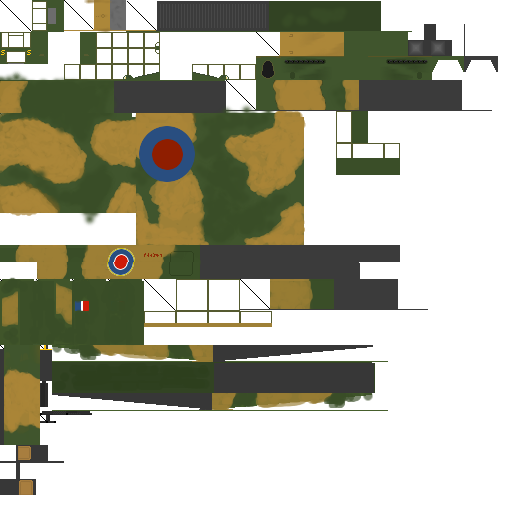
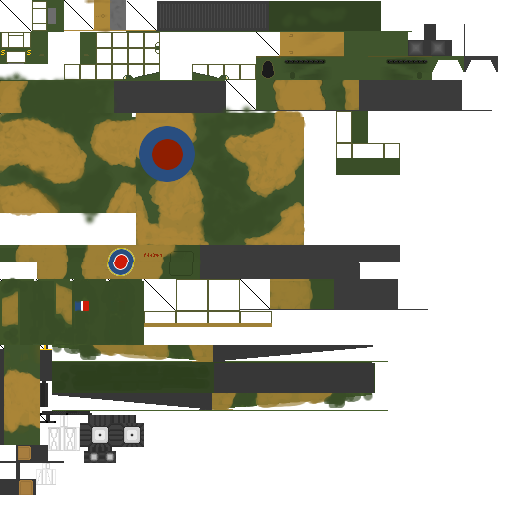
Lancaster wheels done

Changed region(s): [[0.0938, 0.8125, 0.2812, 0.9062]]

diff --git a/src/minecraft/co/uk/flansmods/client/model/ww2/ModelLancaster.java b/src/minecraft/co/uk/flansmods/client/model/ww2/ModelLancaster.java
@@ -255,39 +255,58 @@ public class ModelLancaster extends ModelPlane
 		tailModel[6].flip = true;
 		tailModel[6].addTrapezoid(128, -96, -16, 16, 32, 32, 0.0F, -6.0F, ModelRendererTurbo.MR_LEFT); //Rear Gunner Window Inside
 		
-		rightWingModel = new ModelRendererTurbo[6];
-		rightWingModel[0] = new ModelRendererTurbo(this,0, 113, textureX, textureY);
-		rightWingModel[0].addBox(-64, 16, -82, 64, 96, 4, 0.0F); //Right Wing Inner
-		rightWingModel[0].rotateAngleX = -(float)Math.PI / 2;		
-		rightWingModel[1] = new ModelRendererTurbo(this,136, 113, textureX, textureY);
-		rightWingModel[1].addTrapezoid(-64, 112, -82, 80, 128, 4, 0.0F, -2.0F, ModelRendererTurbo.MR_BOTTOM); //Right Wing Outer
-		rightWingModel[1].rotateAngleX = -(float)Math.PI / 2;		
-		rightWingModel[2] = new ModelRendererTurbo(this,256, 32, textureX, textureY);
-		rightWingModel[2].addTrapezoid(-112, -80, -64, 64, 24, 24, 0.0F, -2.0F, ModelRendererTurbo.MR_BOTTOM); //Right Inner Engine
-		rightWingModel[3] = new ModelRendererTurbo(this,256, 32, textureX, textureY);
-		rightWingModel[3].addTrapezoid(-96, -80, -128, 64, 24, 24, 0.0F, -2.0F, ModelRendererTurbo.MR_BOTTOM); //Right Outer Engine
-		rightWingModel[4] = new ModelRendererTurbo(this,408, 24, textureX, textureY);
-		rightWingModel[4].addBox(-115, -76, -60, 6, 16, 16, 0.0F); //Right Inner Engine Propeller Centre
-		rightWingModel[5] = new ModelRendererTurbo(this,408, 24, textureX, textureY);
-		rightWingModel[5].addBox(-99, -76, -124, 6, 16, 16, 0.0F); //Right Outer Engine Propeller Centre
+		tailWheelModel = new ModelRendererTurbo[2];
+		tailWheelModel[0] = new ModelRendererTurbo(this, 36, 463, textureX, textureY);
+		tailWheelModel[0].addBox(98, -10, -3, 4, 16, 6);
+		tailWheelModel[1] = new ModelRendererTurbo(this, 84, 447, textureX, textureY);
+		tailWheelModel[1].addBox(94, -1, -2, 12, 12, 4);
+	
 		
 		leftWingModel = new ModelRendererTurbo[6];
-		leftWingModel[0] = new ModelRendererTurbo(this,0, 113, textureX, textureY);	
-		leftWingModel[0].addBox(-64, 16, -82, 64, 96, 4, 0.0F); //Left Wing Inner
-		leftWingModel[0].doMirror(false, true, false);
+		leftWingModel[0] = new ModelRendererTurbo(this,0, 113, textureX, textureY);
+		leftWingModel[0].addBox(-64, 16, -82, 64, 96, 4, 0.0F); //Right Wing Inner
 		leftWingModel[0].rotateAngleX = -(float)Math.PI / 2;		
 		leftWingModel[1] = new ModelRendererTurbo(this,136, 113, textureX, textureY);
-		leftWingModel[1].addTrapezoid(-64, 112, -82, 80, 128, 4, 0.0F, -2.0F, ModelRendererTurbo.MR_BOTTOM); //Left Wing Outer
-		leftWingModel[1].doMirror(false, true, false);
-		leftWingModel[1].rotateAngleX = -(float)Math.PI / 2;
+		leftWingModel[1].addTrapezoid(-64, 112, -82, 80, 128, 4, 0.0F, -2.0F, ModelRendererTurbo.MR_BOTTOM); //Right Wing Outer
+		leftWingModel[1].rotateAngleX = -(float)Math.PI / 2;		
 		leftWingModel[2] = new ModelRendererTurbo(this,256, 32, textureX, textureY);
-		leftWingModel[2].addTrapezoid(-112, -80, 40, 64, 24, 24, 0.0F, -2.0F, ModelRendererTurbo.MR_BOTTOM); //Left Inner Engine
+		leftWingModel[2].addTrapezoid(-112, -80, -64, 64, 24, 24, 0.0F, -2.0F, ModelRendererTurbo.MR_BOTTOM); //Right Inner Engine
 		leftWingModel[3] = new ModelRendererTurbo(this,256, 32, textureX, textureY);
-		leftWingModel[3].addTrapezoid(-96, -80, 104, 64, 24, 24, 0.0F, -2.0F, ModelRendererTurbo.MR_BOTTOM); //Left Outer Engine		
+		leftWingModel[3].addTrapezoid(-96, -80, -128, 64, 24, 24, 0.0F, -2.0F, ModelRendererTurbo.MR_BOTTOM); //Right Outer Engine
 		leftWingModel[4] = new ModelRendererTurbo(this,408, 24, textureX, textureY);
-		leftWingModel[4].addBox(-115, -76, 44, 6, 16, 16, 0.0F); //Left Inner Engine Propeller Centre
+		leftWingModel[4].addBox(-115, -76, -60, 6, 16, 16, 0.0F); //Right Inner Engine Propeller Centre
 		leftWingModel[5] = new ModelRendererTurbo(this,408, 24, textureX, textureY);
-		leftWingModel[5].addBox(-99, -76, 108, 6, 16, 16, 0.0F); //Left Outer Engine Propeller Centre		
+		leftWingModel[5].addBox(-99, -76, -124, 6, 16, 16, 0.0F); //Right Outer Engine Propeller Centre
+		
+		leftWingWheelModel = new ModelRendererTurbo[2];
+		leftWingWheelModel[0] = new ModelRendererTurbo(this, 48, 415, textureX, textureY);
+		leftWingWheelModel[0].addBox(-82, -4, -58, 4, 24, 12);
+		leftWingWheelModel[1] = new ModelRendererTurbo(this, 80, 415, textureX, textureY);
+		leftWingWheelModel[1].addBox(-92, 8, -56, 24, 24, 8);
+		
+		rightWingModel = new ModelRendererTurbo[6];
+		rightWingModel[0] = new ModelRendererTurbo(this,0, 113, textureX, textureY);	
+		rightWingModel[0].addBox(-64, 16, -82, 64, 96, 4, 0.0F); //Left Wing Inner
+		rightWingModel[0].doMirror(false, true, false);
+		rightWingModel[0].rotateAngleX = -(float)Math.PI / 2;		
+		rightWingModel[1] = new ModelRendererTurbo(this,136, 113, textureX, textureY);
+		rightWingModel[1].addTrapezoid(-64, 112, -82, 80, 128, 4, 0.0F, -2.0F, ModelRendererTurbo.MR_BOTTOM); //Left Wing Outer
+		rightWingModel[1].doMirror(false, true, false);
+		rightWingModel[1].rotateAngleX = -(float)Math.PI / 2;
+		rightWingModel[2] = new ModelRendererTurbo(this,256, 32, textureX, textureY);
+		rightWingModel[2].addTrapezoid(-112, -80, 40, 64, 24, 24, 0.0F, -2.0F, ModelRendererTurbo.MR_BOTTOM); //Left Inner Engine
+		rightWingModel[3] = new ModelRendererTurbo(this,256, 32, textureX, textureY);
+		rightWingModel[3].addTrapezoid(-96, -80, 104, 64, 24, 24, 0.0F, -2.0F, ModelRendererTurbo.MR_BOTTOM); //Left Outer Engine		
+		rightWingModel[4] = new ModelRendererTurbo(this,408, 24, textureX, textureY);
+		rightWingModel[4].addBox(-115, -76, 44, 6, 16, 16, 0.0F); //Left Inner Engine Propeller Centre
+		rightWingModel[5] = new ModelRendererTurbo(this,408, 24, textureX, textureY);
+		rightWingModel[5].addBox(-99, -76, 108, 6, 16, 16, 0.0F); //Left Outer Engine Propeller Centre	
+		
+		rightWingWheelModel = new ModelRendererTurbo[2];
+		rightWingWheelModel[0] = new ModelRendererTurbo(this, 48, 415, textureX, textureY);
+		rightWingWheelModel[0].addBox(-82, -4, 46, 4, 24, 12);
+		rightWingWheelModel[1] = new ModelRendererTurbo(this, 80, 415, textureX, textureY);
+		rightWingWheelModel[1].addBox(-92, 8, 48, 24, 24, 8);
 
 		propellerModels = new ModelRendererTurbo[4][3]; //4 propellers
 		propellerModels[1] = makeProp(-114, -68, 52);
@@ -304,11 +323,11 @@ public class ModelLancaster extends ModelPlane
 		yawFlapModel[1].addBox(0F, -48F , -1F, 16, 64, 2, 0.0F);
 		yawFlapModel[1].setPosition(112F, -80F, -81F);			
 	
-		pitchFlapRightWingModel = new ModelRendererTurbo[1];
-		pitchFlapRightWingModel[0] = new ModelRendererTurbo(this,0, 345, textureX, textureY);
-		pitchFlapRightWingModel[0].addBox(0F, -48F , -2F, 16, 96, 4, 0.0F);
-        pitchFlapRightWingModel[0].rotateAngleX = 1.570796F;
-		pitchFlapRightWingModel[0].setPosition(0F, -80F, -64F);
+		pitchFlapLeftWingModel = new ModelRendererTurbo[1];
+		pitchFlapLeftWingModel[0] = new ModelRendererTurbo(this,0, 345, textureX, textureY);
+		pitchFlapLeftWingModel[0].addBox(0F, -48F , -2F, 16, 96, 4, 0.0F);
+		pitchFlapLeftWingModel[0].rotateAngleX = 1.570796F;
+		pitchFlapLeftWingModel[0].setPosition(0F, -80F, -64F);
 		
 		pitchFlapLeftModel = new ModelRendererTurbo[1];		
 		pitchFlapLeftModel[0] = new ModelRendererTurbo(this,36, 279, textureX, textureY);
@@ -316,35 +335,18 @@ public class ModelLancaster extends ModelPlane
 	    pitchFlapLeftModel[0].rotateAngleX = 1.570796F;
 		pitchFlapLeftModel[0].setPosition(112F, -81F, 48F);	
 		
-		pitchFlapLeftWingModel = new ModelRendererTurbo[1]; //Two right pitch flaps
-		pitchFlapLeftWingModel[0] = new ModelRendererTurbo(this,0, 345, textureX, textureY);
-		pitchFlapLeftWingModel[0].addBox(0F, -48F , -2F, 16, 96, 4, 0.0F);
-		pitchFlapLeftWingModel[0].doMirror(false, true, false);
-        pitchFlapLeftWingModel[0].rotateAngleX = 1.570796F;
-		pitchFlapLeftWingModel[0].setPosition(0F, -80F, 64F);
+		pitchFlapRightWingModel = new ModelRendererTurbo[1]; //Two right pitch flaps
+		pitchFlapRightWingModel[0] = new ModelRendererTurbo(this,0, 345, textureX, textureY);
+		pitchFlapRightWingModel[0].addBox(0F, -48F , -2F, 16, 96, 4, 0.0F);
+		pitchFlapRightWingModel[0].doMirror(false, true, false);
+		pitchFlapRightWingModel[0].rotateAngleX = 1.570796F;
+		pitchFlapRightWingModel[0].setPosition(0F, -80F, 64F);
 		
 		pitchFlapRightModel = new ModelRendererTurbo[1];		
 		pitchFlapRightModel[0] = new ModelRendererTurbo(this,36, 279, textureX, textureY);
 		pitchFlapRightModel[0].addBox(0, -32, -1, 16, 64, 2, 0.0F);
 	    pitchFlapRightModel[0].rotateAngleX = 1.570796F;
 		pitchFlapRightModel[0].setPosition(112F, -81F, -48F);
-
-		topWingModel = new ModelRendererTurbo[0];
-		
-		bodyWheelModel = new ModelRendererTurbo[0];
-		tailWheelModel = new ModelRendererTurbo[0];
-		rightWingWheelModel = new ModelRendererTurbo[0];
-		leftWingWheelModel = new ModelRendererTurbo[0];
-
-		bodyDoorOpenModel = new ModelRendererTurbo[0];
-		bodyDoorCloseModel = new ModelRendererTurbo[0];
-		tailDoorOpenModel = new ModelRendererTurbo[0];
-		tailDoorCloseModel = new ModelRendererTurbo[0];
-
-		rightWingPos1Model = new ModelRendererTurbo[0];
-		rightWingPos2Model = new ModelRendererTurbo[0];
-		leftWingPos1Model = new ModelRendererTurbo[0];
-		leftWingPos2Model = new ModelRendererTurbo[0];
 		
 		translateAll(52);
 		

diff --git a/src/minecraft/co/uk/flansmods/common/driveables/EntityPlane.java b/src/minecraft/co/uk/flansmods/common/driveables/EntityPlane.java
@@ -1,5 +1,7 @@
 package co.uk.flansmods.common.driveables;
 
+import java.io.DataInputStream;
+import java.io.DataOutputStream;
 import java.io.IOException;
 import java.util.List;
 
@@ -60,9 +62,12 @@ public class EntityPlane extends EntityDriveable
 	private boolean spawnedEntities;
 	public int ticksSinceUsed = 0;
     
-    public boolean varGear;
-    public boolean varDoor;
-    public boolean varWing;
+    public boolean varGear = true;
+    public boolean varDoor = false;
+    public boolean varWing = false;
+    
+    //Used to stop multiple presses of gear, door and wing buttons
+    public int toggleTimer = 0;
   
 	public int trimButton = 1;
 	
@@ -119,7 +124,37 @@ public class EntityPlane extends EntityDriveable
         varDoor = tag.getBoolean("VarDoor");
         varWing = tag.getBoolean("VarWing");
     }
-
+	
+	@Override
+	public void writeUpdateData(DataOutputStream out)
+	{
+		try
+		{
+			out.writeBoolean(varGear);
+			out.writeBoolean(varDoor);
+			out.writeBoolean(varWing);
+		}
+		catch(IOException e)
+		{
+			e.printStackTrace();
+		}
+	}
+	
+	@Override
+	public void readUpdateData(DataInputStream in)
+	{
+		try
+		{
+			varGear = in.readBoolean();
+			varDoor = in.readBoolean();
+			varWing = in.readBoolean();
+		}
+		catch(IOException e)
+		{
+			e.printStackTrace();
+		}
+	}
+	
 	/**
 	 * Called with the movement of the mouse. Used in controlling vehicles if need be.
 	 * @param deltaY 
@@ -178,7 +213,7 @@ public class EntityPlane extends EntityDriveable
 	public boolean pressKey(int key, EntityPlayer player)
 	{
     	PlaneType type = this.getPlaneType();
-    	if(worldObj.isRemote && (key == 6 || key == 8 || key == 9))
+    	if(worldObj.isRemote && (key == 6 || key == 8 || key == 9))// || key == 13 || key == 14 || key == 15))
     	{
     		PacketDispatcher.sendPacketToServer(PacketVehicleKey.buildKeyPacket(key));
     		return true;
@@ -339,23 +374,37 @@ public class EntityPlane extends EntityDriveable
 			}
 			case 13 : // Gear
 			{
-				varGear = !varGear;
-				if(type.hasGear)
-					player.addChatMessage("Landing gear " + (varGear ? "up" : "down"));
+				if(toggleTimer <= 0)
+				{
+					varGear = !varGear;
+					player.addChatMessage("Landing gear " + (varGear ? "down" : "up"));
+					toggleTimer = 10;
+					PacketDispatcher.sendPacketToServer(PacketVehicleControl.buildUpdatePacket(this));
+				}
 				return true;
 			}
 			case 14 : // Door
 			{
-				varDoor = !varDoor;
-				if(type.hasDoor)
-					player.addChatMessage("Doors " + (varDoor ? "open" : "closed"));
+				if(toggleTimer <= 0)
+				{
+					varDoor = !varDoor;
+					if(type.hasDoor)
+						player.addChatMessage("Doors " + (varDoor ? "open" : "closed"));
+					toggleTimer = 10;
+					PacketDispatcher.sendPacketToServer(PacketVehicleControl.buildUpdatePacket(this));
+				}
 				return true;
 			}
 			case 15 : // Wing
 			{
-				varWing = !varWing;
-				if(type.hasWing)
-					player.addChatMessage("Toggling wings");
+				if(toggleTimer <= 0)
+				{
+					varWing = !varWing;
+					if(type.hasWing)
+						player.addChatMessage("Toggling wings");
+					toggleTimer = 10;
+					PacketDispatcher.sendPacketToServer(PacketVehicleControl.buildUpdatePacket(this));
+				}
 				return true;
 			}
             case 16 : // Trim Button
@@ -401,6 +450,8 @@ public class EntityPlane extends EntityDriveable
 			bombDelay--;
 		if(gunDelay > 0)
 			gunDelay--;
+		if(toggleTimer > 0)
+			toggleTimer--;
 		
 		//Aesthetics
 		//Rotate the propellers
@@ -662,7 +713,12 @@ public class EntityPlane extends EntityDriveable
     		super.applyEntityCollision(entity);
     }
   
-	
+    @Override
+	public boolean canHitPart(EnumDriveablePart part)
+	{
+    	return varGear || (part != EnumDriveablePart.coreWheel && part != EnumDriveablePart.leftWingWheel && part != EnumDriveablePart.rightWingWheel && part != EnumDriveablePart.tailWheel);
+	}
+    
 	@Override
 	public boolean attackEntityFrom(DamageSource damagesource, float i)
     {

diff --git a/src/minecraft/co/uk/flansmods/common/driveables/EntityDriveable.java b/src/minecraft/co/uk/flansmods/common/driveables/EntityDriveable.java
@@ -1,5 +1,7 @@
 package co.uk.flansmods.common.driveables;
 
+import java.io.DataInputStream;
+import java.io.DataOutputStream;
 import java.io.IOException;
 import java.util.ArrayList;
 import java.util.HashMap;
@@ -100,7 +102,7 @@ public abstract class EntityDriveable extends Entity implements IControllable, I
 		}
 		for(EnumDriveablePart part : EnumDriveablePart.values())
 		{
-			parts.put(part, new DriveablePart(part, type.health.get(part)));
+			parts.put(part, new DriveablePart(this, part, type.health.get(part)));
 		}
 		yOffset = type.yOffset;
 	}
@@ -195,6 +197,10 @@ public abstract class EntityDriveable extends Entity implements IControllable, I
 			e.printStackTrace();
 		}
 	}
+	
+	public abstract void writeUpdateData(DataOutputStream out);
+	
+	public abstract void readUpdateData(DataInputStream in);
 	
 	/**
 	 * Called with the movement of the mouse. Used in controlling vehicles if need be.
@@ -860,6 +866,12 @@ public abstract class EntityDriveable extends Entity implements IControllable, I
 			}
 		}
 		return false;
+	}
+	
+	/** For overriding for toggles such as gear up / down on planes */
+	public boolean canHitPart(EnumDriveablePart part)
+	{
+		return true;
 	}
 	
 	/** Internal method for checking that all parts are ok, destroying broken ones, dropping items and making sure that child parts are destroyed when their parents are */

diff --git a/src/minecraft/co/uk/flansmods/common/network/PacketVehicleControl.java b/src/minecraft/co/uk/flansmods/common/network/PacketVehicleControl.java
@@ -40,6 +40,7 @@ public class PacketVehicleControl extends FlanPacketCommon
         	data.writeFloat(driveable.angularVelocity.y);
         	data.writeFloat(driveable.angularVelocity.z);
         	data.writeFloat(driveable.throttle);
+        	driveable.writeUpdateData(data);
         	        	
         	packet.data = bytes.toByteArray();
         	packet.length = packet.data.length;
@@ -76,6 +77,7 @@ public class PacketVehicleControl extends FlanPacketCommon
 			if(driveable != null)
 			{
 				driveable.setPositionRotationAndMotion(stream.readDouble(), stream.readDouble(), stream.readDouble(), stream.readFloat(), stream.readFloat(), stream.readFloat(), stream.readDouble(), stream.readDouble(), stream.readDouble(), stream.readFloat(), stream.readFloat(), stream.readFloat(), stream.readFloat());
+				driveable.readUpdateData(stream);
 			}
 		}
         catch(Exception e)

diff --git a/src/minecraft/co/uk/flansmods/common/driveables/DriveablePart.java b/src/minecraft/co/uk/flansmods/common/driveables/DriveablePart.java
@@ -14,9 +14,11 @@ public class DriveablePart
 	public boolean onFire;
 	/** Keeps track of whether death code has been called or not */
 	public boolean dead;
+	public EntityDriveable driveable;
 	
-	public DriveablePart(EnumDriveablePart e, CollisionBox b)
+	public DriveablePart(EntityDriveable d, EnumDriveablePart e, CollisionBox b)
 	{
+		driveable = d;
 		type = e;
 		box = b;
 		health = maxHealth = b == null ? 0 : b.health;
@@ -48,6 +50,8 @@ public class DriveablePart
 	public boolean rayTrace(EntityBullet bullet, Vector3f origin, Vector3f motion)
 	{
 		if(box == null || health <= 0 || dead)
+			return false;
+		if(!driveable.canHitPart(type))
 			return false;
 		//Complicated. Will explain later. Someone remind me.
 		boolean enteringX = coordIsEntering(origin.x, origin.x + motion.x, (float)box.x / 16F, (float)(box.x + box.w) / 16F);

diff --git a/src/minecraft/co/uk/flansmods/client/GuiDriveableController.java b/src/minecraft/co/uk/flansmods/client/GuiDriveableController.java
@@ -184,6 +184,30 @@ public class GuiDriveableController extends GuiScreen
 			{
 				plane.pressKey(10, player);
 			}				
+			if(Keyboard.isKeyDown(KeyInputHandler.leftRollKey.keyCode))
+			{
+				plane.pressKey(11, player);
+			}				
+			if(Keyboard.isKeyDown(KeyInputHandler.rightRollKey.keyCode))
+			{
+				plane.pressKey(12, player);
+			}				
+			if(Keyboard.isKeyDown(KeyInputHandler.gearKey.keyCode))
+			{
+				plane.pressKey(13, player);
+			}				
+			if(Keyboard.isKeyDown(KeyInputHandler.doorKey.keyCode))
+			{
+				plane.pressKey(14, player);
+			}				
+			if(Keyboard.isKeyDown(KeyInputHandler.wingKey.keyCode))
+			{
+				plane.pressKey(15, player);
+			}				
+			if(Keyboard.isKeyDown(KeyInputHandler.trimKey.keyCode))
+			{
+				plane.pressKey(16, player);
+			}				
 	
 		}
 		else
